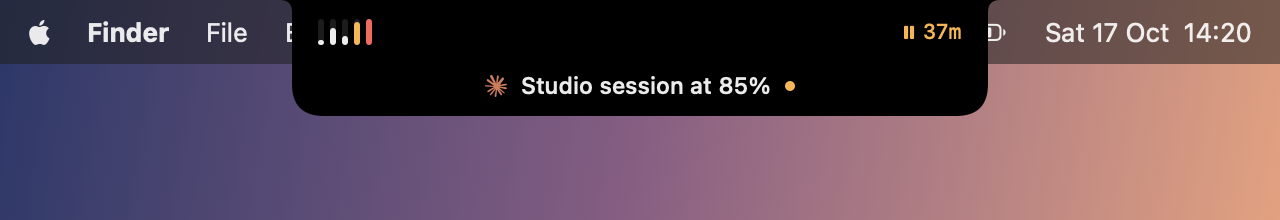
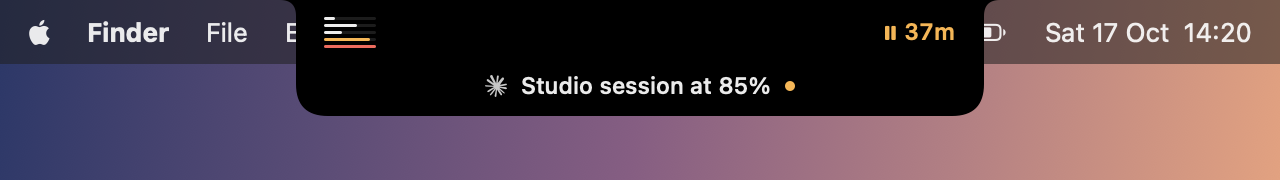
tighter panel, mini meters, pace tick

diff --git a/src/NotchView.swift b/src/NotchView.swift
@@ -6,7 +6,7 @@ import AppKit
 enum Theme {
     static let text = Color.white.opacity(0.92)
     static let dim = Color.white.opacity(0.56)
-    static let faint = Color.white.opacity(0.32)
+    static let faint = Color.white.opacity(0.4)
     static let track = Color.white.opacity(0.11)
     static let accent = Color(red: 0.80, green: 0.96, blue: 0.27)      // Pager lime
     static let warn = Color(red: 1.0, green: 0.70, blue: 0.25)
@@ -16,6 +16,8 @@ enum Theme {
     static func level(_ pct: Double) -> Color { pct >= 100 ? bad : pct >= 85 ? warn : text }
 
     static func mono(_ size: CGFloat, _ w: Font.Weight = .medium) -> Font { .system(size: size, weight: w, design: .monospaced) }
+    /// Numbers: SF with tabular digits, so columns line up without a mono texture.
+    static func num(_ size: CGFloat, _ w: Font.Weight = .medium) -> Font { .system(size: size, weight: w).monospacedDigit() }
     static func ui(_ size: CGFloat, _ w: Font.Weight = .medium) -> Font { .system(size: size, weight: w) }
 }
 
@@ -27,16 +29,16 @@ final class NotchModel: ObservableObject {
     @Published var notchHeight: CGFloat = 32
     @Published var hasNotch = true
 
-    static let wing: CGFloat = 52
-    static let topRadius: CGFloat = 6
-    static let openWidth: CGFloat = 468
+    static let wing: CGFloat = 60
+    static let topRadius: CGFloat = 8
+    static let openWidth: CGFloat = 404
     static let rowHeight: CGFloat = 34
     static let flashHeight: CGFloat = 26
 
     var collapsedSize: CGSize { CGSize(width: notchWidth + 2 * Self.wing, height: notchHeight) }
 
     func openSize(rows: Int) -> CGSize {
-        let body = rows == 0 ? 64 : 22 + CGFloat(rows) * Self.rowHeight + 10
+        let body = rows == 0 ? 64 : 20 + CGFloat(rows) * Self.rowHeight + 12
         return CGSize(width: max(Self.openWidth, notchWidth + 2 * Self.wing + 40), height: notchHeight + body)
     }
 }
@@ -114,11 +116,18 @@ struct NotchView: View {
         .environment(\.colorScheme, .dark)
     }
 
-    /// The band beside the camera: pips on the left, the next reset on the right.
+    /// The band beside the camera: a miniature of the panel on the left, the next reset on the right.
     private var header: some View {
         HStack(spacing: 0) {
-            Pips(store: store)
-                .padding(.leading, model.open ? 16 : 13)
+            Group {
+                if model.open {
+                    Text(updatedText).font(Theme.ui(10)).foregroundStyle(Theme.faint)
+                        .transition(.opacity.animation(.easeOut(duration: 0.15).delay(0.08)))
+                } else {
+                    Minis(store: store).transition(.opacity)
+                }
+            }
+            .padding(.leading, model.open ? 16 : 14)
             Spacer(minLength: model.notchWidth)
             Group {
                 if model.open {
@@ -135,7 +144,7 @@ struct NotchView: View {
                         .transition(.opacity)
                 }
             }
-            .padding(.trailing, model.open ? 12 : 13)
+            .padding(.trailing, model.open ? 10 : 14)
         }
         .frame(height: model.notchHeight)
     }
@@ -146,13 +155,12 @@ struct NotchView: View {
                 EmptyState(onAdd: onAdd).frame(height: 64)
             } else {
                 HStack(spacing: 0) {
-                    Text(updatedText).font(Theme.ui(9.5)).foregroundStyle(Theme.faint)
-                        .frame(maxWidth: .infinity, alignment: .leading)
+                    Spacer()
                     ColumnLabel("Session").frame(width: Row.meterWidth, alignment: .leading)
                     ColumnLabel("Week").frame(width: Row.meterWidth, alignment: .leading).padding(.leading, Row.gap)
                 }
                 .padding(.horizontal, 16)
-                .frame(height: 22, alignment: .bottom)
+                .frame(height: 20, alignment: .bottom)
                 ForEach(rows) { a in
                     Row(account: a, usage: store.usage[a.id], now: store.now)
                         .frame(height: NotchModel.rowHeight)
@@ -186,29 +194,31 @@ struct ColumnLabel: View {
 
 // MARK: - Collapsed pieces
 
-/// One slim bar per account: how close it is to its tightest limit.
-struct Pips: View {
+/// The panel in miniature: one hairline per account, as full as its tightest limit.
+struct Minis: View {
     @ObservedObject var store: Store
 
     var body: some View {
-        HStack(alignment: .bottom, spacing: 3) {
-            ForEach(store.visible.prefix(8)) { a in
+        let list = Array(store.visible.prefix(6))
+        let h: CGFloat = list.count > 4 ? 1.5 : 2
+        let gap: CGFloat = list.count > 4 ? 2 : 2.5
+        VStack(alignment: .leading, spacing: gap) {
+            ForEach(list) { a in
                 let u = store.usage[a.id]
-                let pct = u?.peak ?? 0
-                ZStack(alignment: .bottom) {
+                let pct = min(u?.peak ?? 0, 100)
+                ZStack(alignment: .leading) {
                     Capsule().fill(Theme.track)
                     Capsule().fill(u?.needsAuth == true ? Theme.faint : Theme.level(pct))
-                        .frame(height: max(2.5, 13 * min(pct, 100) / 100))
-                        .opacity(u == nil ? 0 : 1)
+                        .frame(width: u == nil ? 0 : max(h, 26 * pct / 100))
                 }
-                .frame(width: 3, height: 13)
-                .help("\(a.label) · \(Int(pct))%")
+                .frame(width: 26, height: h)
             }
-            if store.visible.isEmpty {
-                Circle().stroke(Theme.faint, lineWidth: 1).frame(width: 8, height: 8)
+            if list.isEmpty {
+                Capsule().fill(Theme.track).frame(width: 26, height: 2)
             }
         }
         .animation(.spring(response: 0.5, dampingFraction: 0.8), value: store.usage)
+        .help(list.map { "\($0.label) \(Int(store.usage[$0.id]?.peak ?? 0))%" }.joined(separator: " · "))
     }
 }
 
@@ -220,11 +230,12 @@ struct NextReset: View {
         if let (w, blocked) = pick() {
             HStack(spacing: 3) {
                 Image(systemName: blocked ? "pause.fill" : "arrow.counterclockwise")
-                    .font(.system(size: 7.5, weight: .bold))
-                Text(Fmt.reset(w.resetsAt, now: store.now)).font(Theme.mono(10.5))
+                    .font(.system(size: 8, weight: .bold))
+                Text(Fmt.reset(w.resetsAt, now: store.now)).font(Theme.num(11.5, .semibold)).lineLimit(1)
             }
-            .foregroundStyle(blocked ? Theme.warn : Theme.dim)
-            .help("Next reset")
+            .fixedSize()
+            .foregroundStyle(blocked ? Theme.warn : Theme.text.opacity(0.8))
+            .help(blocked ? "A maxed-out window resets in \(Fmt.reset(w.resetsAt, now: store.now))" : "Next reset")
         }
     }
 
@@ -267,8 +278,8 @@ struct Row: View {
     let usage: Usage?
     let now: Date
 
-    static let meterWidth: CGFloat = 108
-    static let gap: CGFloat = 18
+    static let meterWidth: CGFloat = 100
+    static let gap: CGFloat = 16
 
     var body: some View {
         HStack(spacing: 0) {
@@ -278,8 +289,8 @@ struct Row: View {
                     HStack(spacing: 5) {
                         Text(account.label).font(Theme.ui(12.5, .semibold)).foregroundStyle(Theme.text).lineLimit(1)
                         if let c = usage?.resetCredits, c > 0 {
-                            Text("\(c)↺").font(Theme.mono(9.5, .semibold)).foregroundStyle(Theme.accent)
-                                .help("\(c) limit reset\(c == 1 ? "" : "s") banked")
+                            Text("\(c) reset\(c == 1 ? "" : "s")").font(Theme.ui(9.5, .semibold)).foregroundStyle(Theme.accent)
+                                .help("\(c) limit reset\(c == 1 ? "" : "s") banked with OpenAI")
                         }
                     }
                     Text(subtitle).font(Theme.ui(10)).foregroundStyle(Theme.faint).lineLimit(1)
@@ -321,22 +332,28 @@ struct Meter: View {
                     Capsule().fill(Theme.track)
                     if let win = window {
                         Capsule().fill(fill(win)).frame(width: max(win.percent > 0 ? 3 : 0, w * min(win.percent, 100) / 100))
-                        if let e = win.elapsed(at: now), e > 0.02, e < 0.98 {
-                            Rectangle().fill(Color.white.opacity(0.55)).frame(width: 1, height: 7).offset(x: w * e - 0.5)
-                        }
                     }
                 }
-                .frame(height: 3)
+                .frame(width: w, height: 3)
+                .overlay(alignment: .leading) {
+                    // Pace: how far through the window we are. Inside the fill it is cut out in black.
+                    if let win = window, let e = win.elapsed(at: now), e > 0.03, e < 0.97 {
+                        let inFill = e * 100 < win.percent
+                        Capsule().fill(inFill ? Color.black : Color.white.opacity(0.45))
+                            .frame(width: inFill ? 1.5 : 1, height: inFill ? 3 : 7)
+                            .offset(x: w * e - 0.75)
+                    }
+                }
                 .frame(maxHeight: .infinity)
             }
             .frame(height: 7)
             HStack(spacing: 0) {
                 if let win = window {
-                    Text("\(Int(win.percent.rounded()))%").font(Theme.mono(10, .semibold)).foregroundStyle(pctColor(win))
+                    Text("\(Int(win.percent.rounded()))%").font(Theme.num(10.5, .semibold)).foregroundStyle(pctColor(win))
                     Spacer(minLength: 4)
-                    Text(Fmt.reset(win.resetsAt, now: now)).font(Theme.mono(10)).foregroundStyle(Theme.dim)
+                    Text(Fmt.reset(win.resetsAt, now: now)).font(Theme.num(10.5)).foregroundStyle(Theme.dim)
                 } else {
-                    Text("—").font(Theme.mono(10)).foregroundStyle(Theme.faint)
+                    Text("—").font(Theme.num(10.5)).foregroundStyle(Theme.faint)
                 }
             }
         }
@@ -349,7 +366,6 @@ struct Meter: View {
 
     private func pctColor(_ w: UsageWindow) -> Color {
         if w.percent >= 85 { return Theme.level(w.percent) }
-        if w.runsOut(at: now) != nil { return Theme.warn }
         return Theme.text
     }
 
@@ -431,7 +447,7 @@ struct Mark: View {
     var body: some View {
         if let img = Self.images[provider] {
             Image(nsImage: img).renderingMode(.template).resizable().interpolation(.high).aspectRatio(contentMode: .fit)
-                .foregroundStyle(provider == .claude ? Theme.claude : Theme.text)
+                .foregroundStyle(Theme.text.opacity(0.85))
         }
     }
 

diff --git a/src/SettingsView.swift b/src/SettingsView.swift
@@ -24,7 +24,7 @@ struct SettingsView: View {
                                 Button { onAdd(p) } label: {
                                     HStack(spacing: 6) {
                                         Mark(provider: p).frame(width: 11, height: 11)
-                                        Text("Sign in to \(p == .claude ? "Claude" : "ChatGPT")")
+                                        Text("Add \(p == .claude ? "Claude" : "ChatGPT") account")
                                     }
                                     .font(Theme.ui(11.5)).foregroundStyle(Theme.text)
                                     .padding(.horizontal, 10).frame(height: 24)
@@ -74,7 +74,7 @@ struct SettingsView: View {
                         }
                         VStack(alignment: .leading, spacing: 5) {
                             Text("Hooks").font(Theme.ui(12)).foregroundStyle(Theme.text)
-                            Text("One shell command per line. Each alert arrives as JSON on stdin and in $BRIM_ALERT, so an agent can spend leftover quota or pause work.")
+                            Text("One command per line. Each alert arrives as JSON on stdin and in $BRIM_ALERT, so an agent can act on it: spend leftover quota, pause heavy work.")
                                 .font(Theme.ui(10.5)).foregroundStyle(Theme.dim).fixedSize(horizontal: false, vertical: true)
                             HooksEditor(store: store)
                         }
@@ -169,7 +169,7 @@ struct AccountRow: View {
     }
 
     private var detail: String {
-        let src = account.source == .claudeCode ? "Claude Code login" : account.source == .codexCLI ? "Codex CLI login" : "signed in here"
+        let src: String? = account.source == .claudeCode ? "via Claude Code" : account.source == .codexCLI ? "via Codex CLI" : nil
         return [account.email, Fmt.plan(account.plan ?? store.usage[account.id]?.plan), src].compactMap { $0 }.joined(separator: " · ")
     }
 
@@ -224,7 +224,14 @@ struct HooksEditor: View {
         TextEditor(text: $text)
             .font(Theme.mono(11)).scrollContentBackground(.hidden)
             .padding(6).frame(height: 54)
-            .background(RoundedRectangle(cornerRadius: 5).fill(Color.white.opacity(0.06)))
+            .background(RoundedRectangle(cornerRadius: 5).fill(Color.white.opacity(0.05)))
+            .overlay(RoundedRectangle(cornerRadius: 5).stroke(Color.white.opacity(0.1)))
+            .overlay(alignment: .topLeading) {
+                if text.isEmpty {
+                    Text("hermes chat -q \"$(jq -r .title)\"").font(Theme.mono(11)).foregroundStyle(Theme.faint)
+                        .padding(.horizontal, 11).padding(.vertical, 6).allowsHitTesting(false)
+                }
+            }
             .onAppear { text = store.settings.hooks.joined(separator: "\n") }
             .onChange(of: text) { _, t in
                 store.settings.hooks = t.split(separator: "\n").map { $0.trimmingCharacters(in: .whitespaces) }.filter { !$0.isEmpty }

diff --git a/src/Snapshot.swift b/src/Snapshot.swift
@@ -22,7 +22,7 @@ enum Snapshot {
                 let model = NotchModel()
                 model.notchWidth = 186; model.notchHeight = 32
                 model.open = args.contains("--open")
-                let size = CGSize(width: 640, height: model.open ? 300 : 110)
+                let size = CGSize(width: 640, height: model.open ? 290 : 90)
                 let view = ZStack(alignment: .top) {
                     Desktop(menuHeight: model.notchHeight)
                     NotchView(store: store, model: model)
@@ -69,7 +69,7 @@ enum Snapshot {
             ("Studio", .claude, "default_claude_max_5x", 64, 3 * 3600 + 40 * 60, 48, 4.2 * 86400, nil),
             ("ChatGPT", .codex, "plus", 7, 8 * 60, 34, 5.3 * 86400, 2),
             ("Auernet", .claude, "claude_team", 88, 52 * 60, 71, 2.6 * 86400, nil),
-            ("Auernet", .codex, "business", 100, 37 * 60, 55, 3.1 * 86400, nil),
+            ("Auernet GPT", .codex, "business", 100, 37 * 60, 55, 3.1 * 86400, nil),
         ]
         for (i, r) in rows.enumerated() {
             let id = "sample-\(i)"
